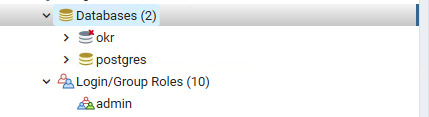
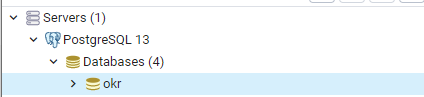
Postgres in docker installation (#51)
* docs: docker installation of postgres

* docs: docker installation of postgres

* docs: minor improvements on the docker postgres instructions

* docs: minor improvements on the docker postgres instructions

* docs: minor improvements on the docker postgres instructions

diff --git a/README.md b/README.md
@@ -30,7 +30,7 @@ We are already working on a faster and easier installation process, so stay tune
 5. Import the project into your favorable IDE (IntelliJ recommended, VS Code should also do the trick ). We recommend opening a separate window for the backend and frontend.
 6. Run `npm install @angular/cli -g`
 7. Run `npm install in the frontend folder`
-8. [Configure](/docs/configure) the backend.
+8. [Configure](/docs/configure.md) the backend.
 
 9. Start the frontend with `npm start`
 10. Start the backend with the gradle `burning-okr-backend[boot-run]` configuration.
@@ -59,7 +59,7 @@ With `npm start` the application is started and can now be called via `http://lo
 To open the project in IntelliJ, go to Import Project and select the file build.gradle in the folder backend. In the dialog that opens you have to select the field use auto-import.
 
 If a configuration was not created automatically to start the project in IntelliJ, a gradle configuration must be created. For the gradle project, okr-tool must be selected, and for tasks, bootRun must be entered.
-
+![intelliJ-Run-Configuration](./docs/images/boot-run-config.png)
 The backend project uses [Project Lombok](https://projectlombok.org). To use Project Lombok in your IDE, please refer to [using Lombok](https://projectlombok.org/setup/overview).
 
 If PostgresSQL has already been successfully installed and configured in the previous step, the Spring Boot application can now be started.

diff --git a/docs/configure.md b/docs/configure.md
@@ -1,6 +1,16 @@
 ### Configuration (Windows and Linux)
-This documentation ist for the local dev enviroment.
-For the configuration of the docker containers, please head to [Configuration](/docker/README.md#configuration-windows-and-linux).
+#### Configuration if you used a docker run command
+If you installed the Postgres database through a `docker run command`, please stay in this section.
+1. If you haven't changed anything in the `docker run command`, you can simply rename the `application-local.docker.yaml` to `application-local.yaml`.
+
+Otherwise, you have to change the yaml accordingly (user,password,port).
+
+#### Docker configuration with docker-compose
+If you only want to use the Burning OKR tool and don't need a local development environment, please head to this [Configuration](/docker/README.md#configuration-windows-and-linux).
+
+#### Manual installation
+If you have installed Postgres manually on your machine, you are in the right place.
+This documentation ist for the local dev environment.
 
 1. Go to "backend/burning-okr/burning-okr-app/src/main/resources/".
 2. Copy the "application.yaml.sample" and create an "application-local.yaml".

diff --git a/docs/postgres_install_docker.md b/docs/postgres_install_docker.md
@@ -1,0 +1,36 @@
+# Install and Setup PostgreSQL (Docker)
+
+## Overview
+You haven't created a database yet? Then you are at the right place!
+
+After the installation you will have an running postgres instance with the following configuration:
+
+* Host: localhost
+* Port: 5432
+* User: postgres
+* Password: 4c0K8sJGcxIercJDlmhs
+
+## Windows
+1. Install Docker
+2. Execute the following command:
+   
+    `docker run -p 5434:5432 --name okr-postgres -e POSTGRES_PASSWORD=4c0K8sJGcxIercJDlmhs -e POSTGRES_DB=okr -d postgres`
+
+3. The Database is now ready for usage.
+
+With the credentials mentioned above you can now connect to the database using IntelliJ, Datagrip or pgAdmin.
+Done!
+
+###Re-Starting Container
+The container won't auto start.
+To start the container enter `docker start okr-postgres`
+
+To stop the container enter `docker stop okr-postgres`
+
+###Recreating Container
+If you want to recreate the container, just do the following:
+1. `docker rm okr-postgres -f`
+2. `docker run -p 5434:5432 --name okr-postgres -e POSTGRES_PASSWORD=4c0K8sJGcxIercJDlmhs -e POSTGRES_DB=okr -d postgres`
+
+
+You can now go back to the Installation Tutorial.

diff --git a/docs/postgres_install.md b/docs/postgres_install.md
@@ -1,14 +1,16 @@
-# Install and Setup PostgreSQL
+# Install and Setup PostgreSQL (Manual installation)
 
 ## Overview
 You haven't created a database yet? Then you are at the right place!
+
+If you want an easy way, please use the [docker installation of postgres](./postgres_install_docker.md)
 
 1. We need to provide a separate PostgreSQL database for the backend application.
 
 2. Additionally, we need to create a user who can connect to the database.
 
 Note: Please remember the **username**, **password** and **database-name** you have chosen.
-You will need those in the coming application yaml configuration.
+You will need those in the later setup/configuration process.
 
 ## Windows
 1. Install PostgreSQL (Version 9.5 or higher): https://www.enterprisedb.com/downloads/postgres-postgresql-downloads
